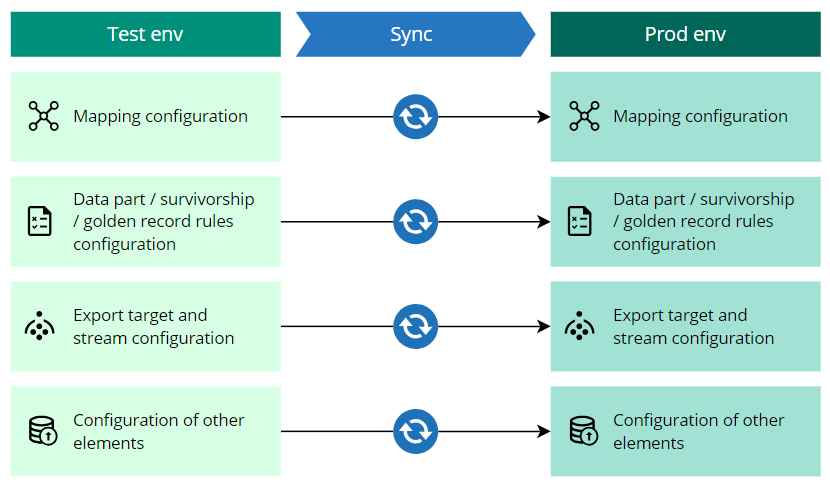
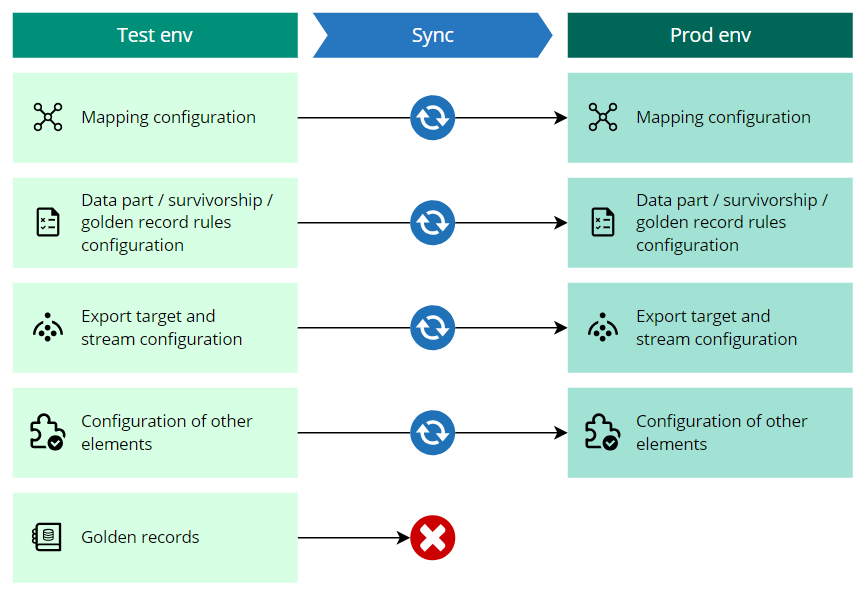
Replaced diagrams

diff --git a/docs/190-paas-operations/009-env-management.md b/docs/190-paas-operations/009-env-management.md
@@ -20,14 +20,14 @@ The following diagram explains the purpose, data, users, and access privileges f
 
 ## Types of users
 
-Before dwelling into the details of each environment, it is important to mention the main types of users in CluedIn and understand their areas of responsibility. Generally, there are 4 main types of users:
+Before dwelling into the details of each environment, it is important to mention the main types of users and CluedIn roles that should be assigned to them. These roles reflect the areas of users' responsibility. Generally, there are 4 main roles:
 
-- Admin – this user is responsible for overall platform configuration as well as user and access management.
-- Data architect – this user is responsible for setting up the overall data strategy, creating mapping, and configuring various data management elements (rules, glossary, streams, enrichers).
-- Data steward – this user is responsible for conducting data cleaning and data management activities.
-- View-only user – this user can view the elements in CluedIn, but cannot make any changes.
+- Administrator – this user is responsible for overall platform configuration as well as user and access management.
+- Data Architect – this user is responsible for setting up the overall data strategy, creating mapping, and configuring various data management elements (rules, glossary, streams, enrichers).
+- Data Steward – this user is responsible for conducting data cleaning and data management activities.
+- User – this user has view-only permissions and can view the elements in CluedIn, but cannot make any changes.
 
-You can implement these types of users with the help of [roles](/administration/roles). The reason why we mention these types of users is that they have different privileges in each environment.
+To learn more about roles, check out our dedicated [article](/administration/roles). The reason we mention these roles is because they should have different privileges in each environment.
 
 ## Development environment
 
@@ -49,12 +49,12 @@ For data in the test environment, we recommend using **obfuscated data** or data
 {:.important}
 If you want to use sensitive data while preparing the configuration for the production environment, you might need a dedicated pre-production environment. If this is your case, reach out to CluedIn support at <a href="mailto:support@cluedin.com">support@cluedin.com</a>.
 
-After you configure all the elements you need for your data management tasks, you can move the configuration from the test environment to the production environment. You can sync test and production environments using CluedIn Production Toolkit available [here](/kb/config-migrate).
+After you configure all the elements you need for your data management tasks, you can move the configuration from the test environment to the production environment. You can sync test and production environments using CluedIn Production Toolkit available [here](/kb/config-migrate). However, it is important to mention that the data cannot be moved from the test to production environment during synchronization.  
 
 ![env-sync-1.png](../../assets/images/kb/env-sync-1.png)
 
 ## Production environment
 
-After you sync test and production environments, make sure you **assign the appropriate permissions** to the users entrusted with daily data management tasks. Since you have configured all of the needed elements in the test environment, very often there is no need to modify them in the production environment. This means that you can limit privileges for all users, except admin.
+After you sync test and production environments, make sure you **assign the appropriate permissions** to the users entrusted with daily data management tasks. Since you have configured all of the needed elements in the test environment, very often there is no need to modify them in the production environment. This means that you can limit privileges for all users, except Administrator.
 
 Essentially, as you move through the environments, you start with high privileges in development and move to very limited privileges in production.
